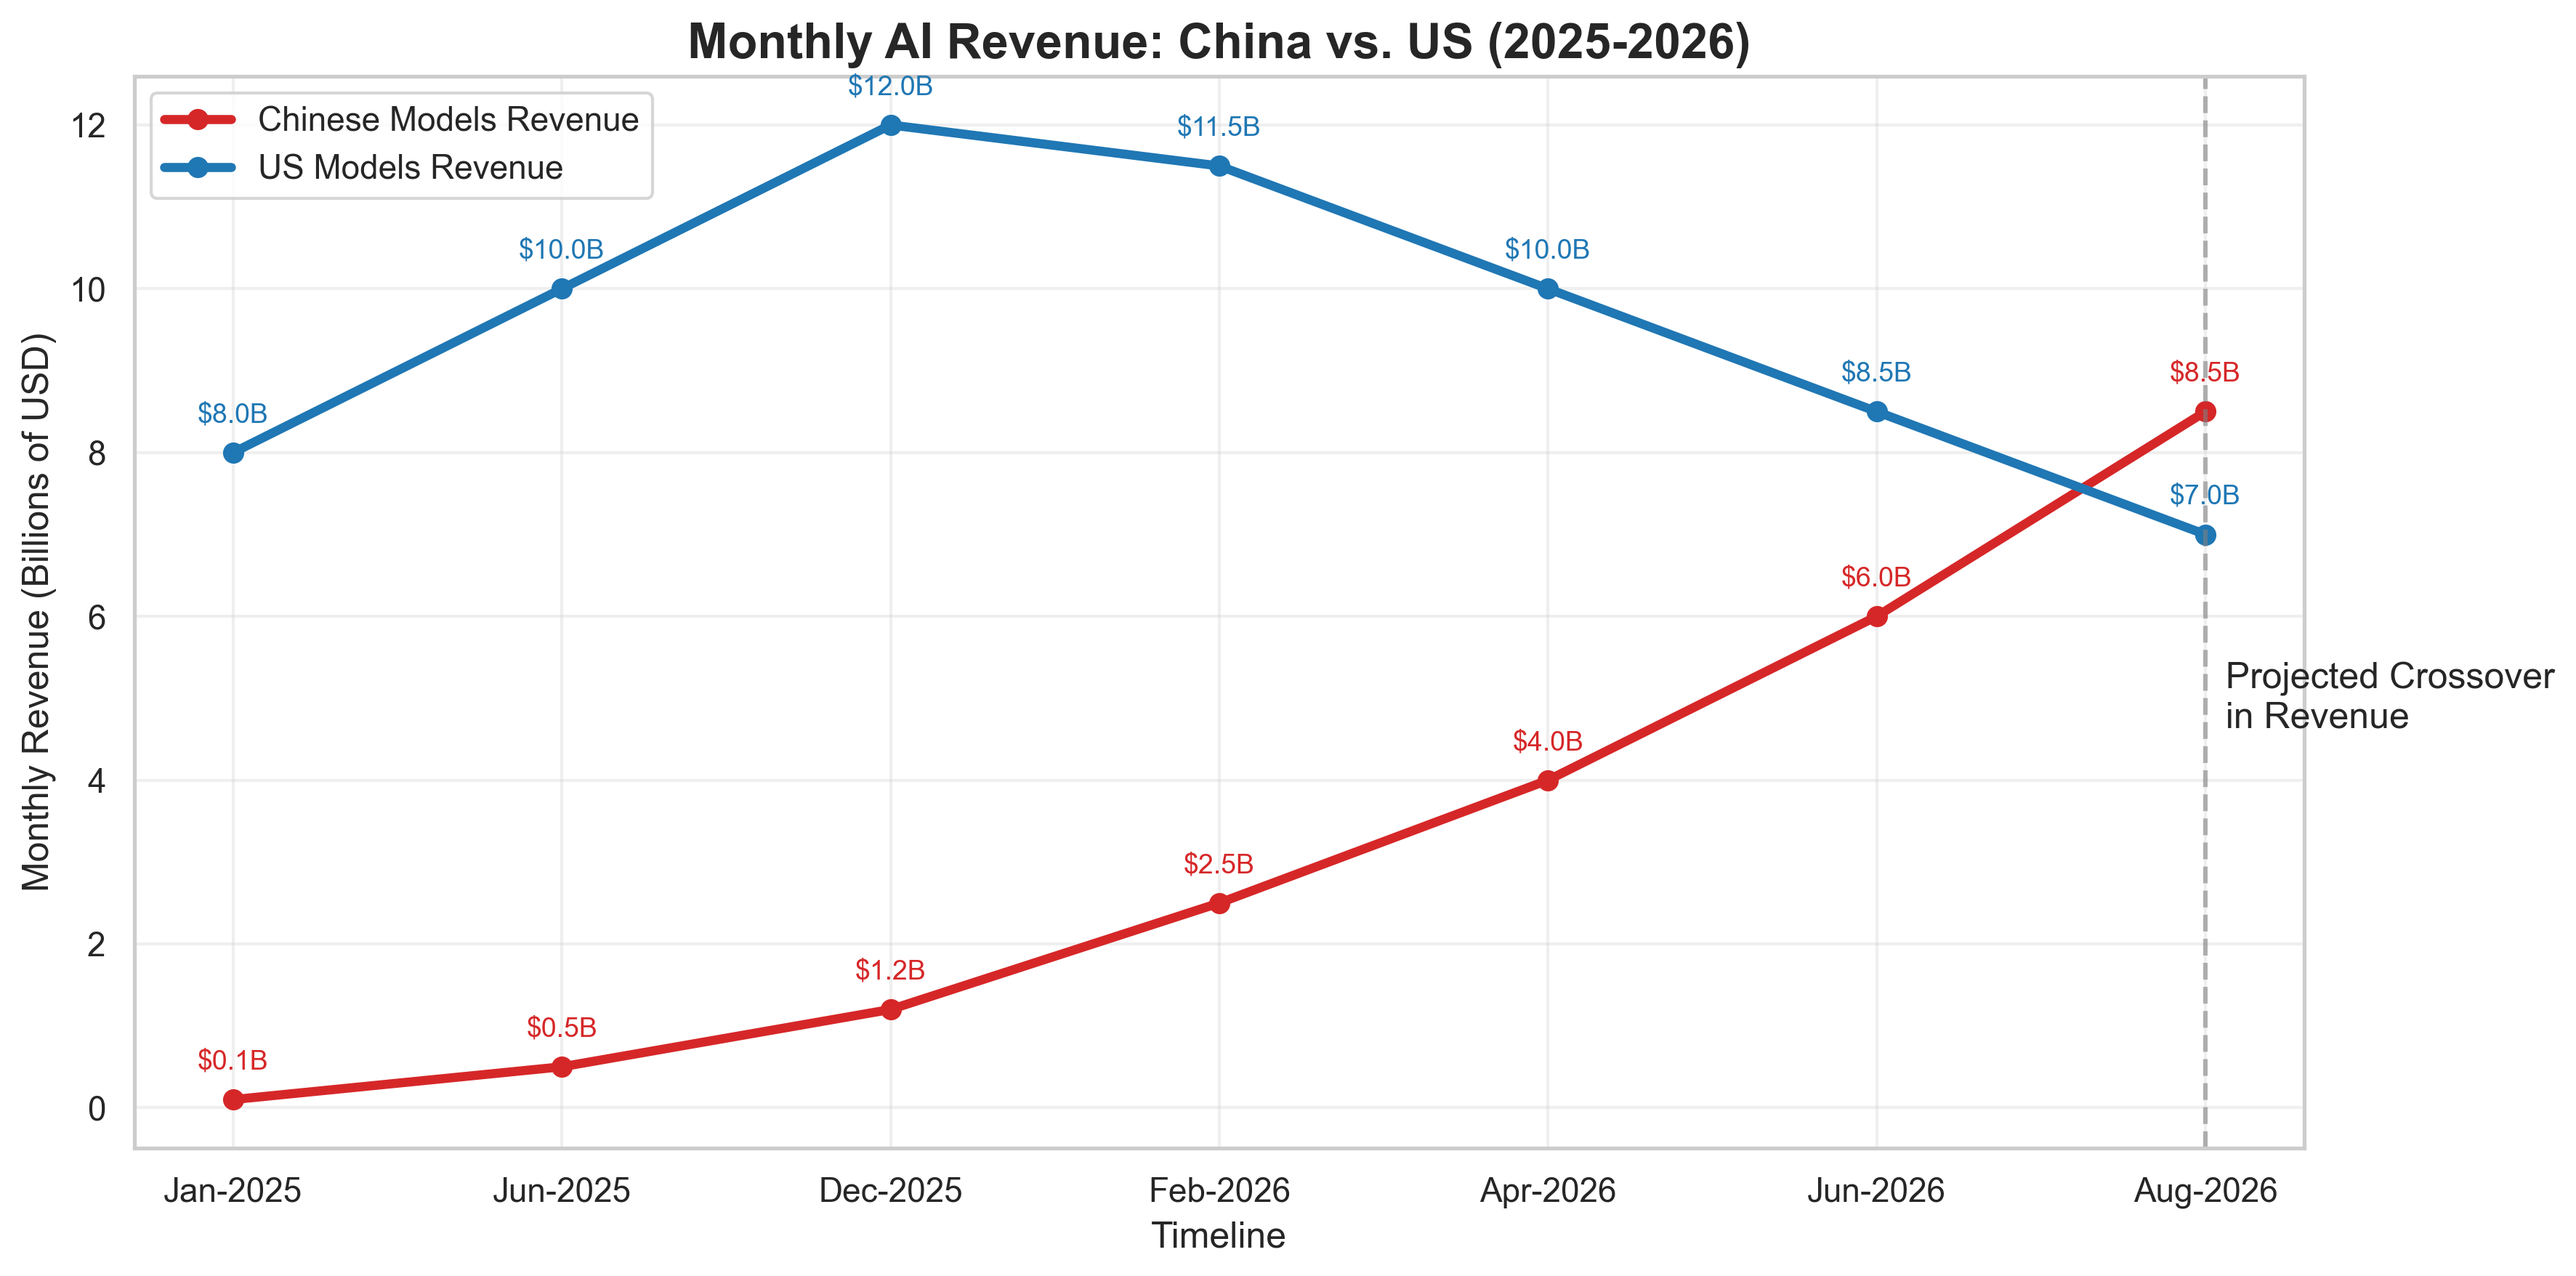
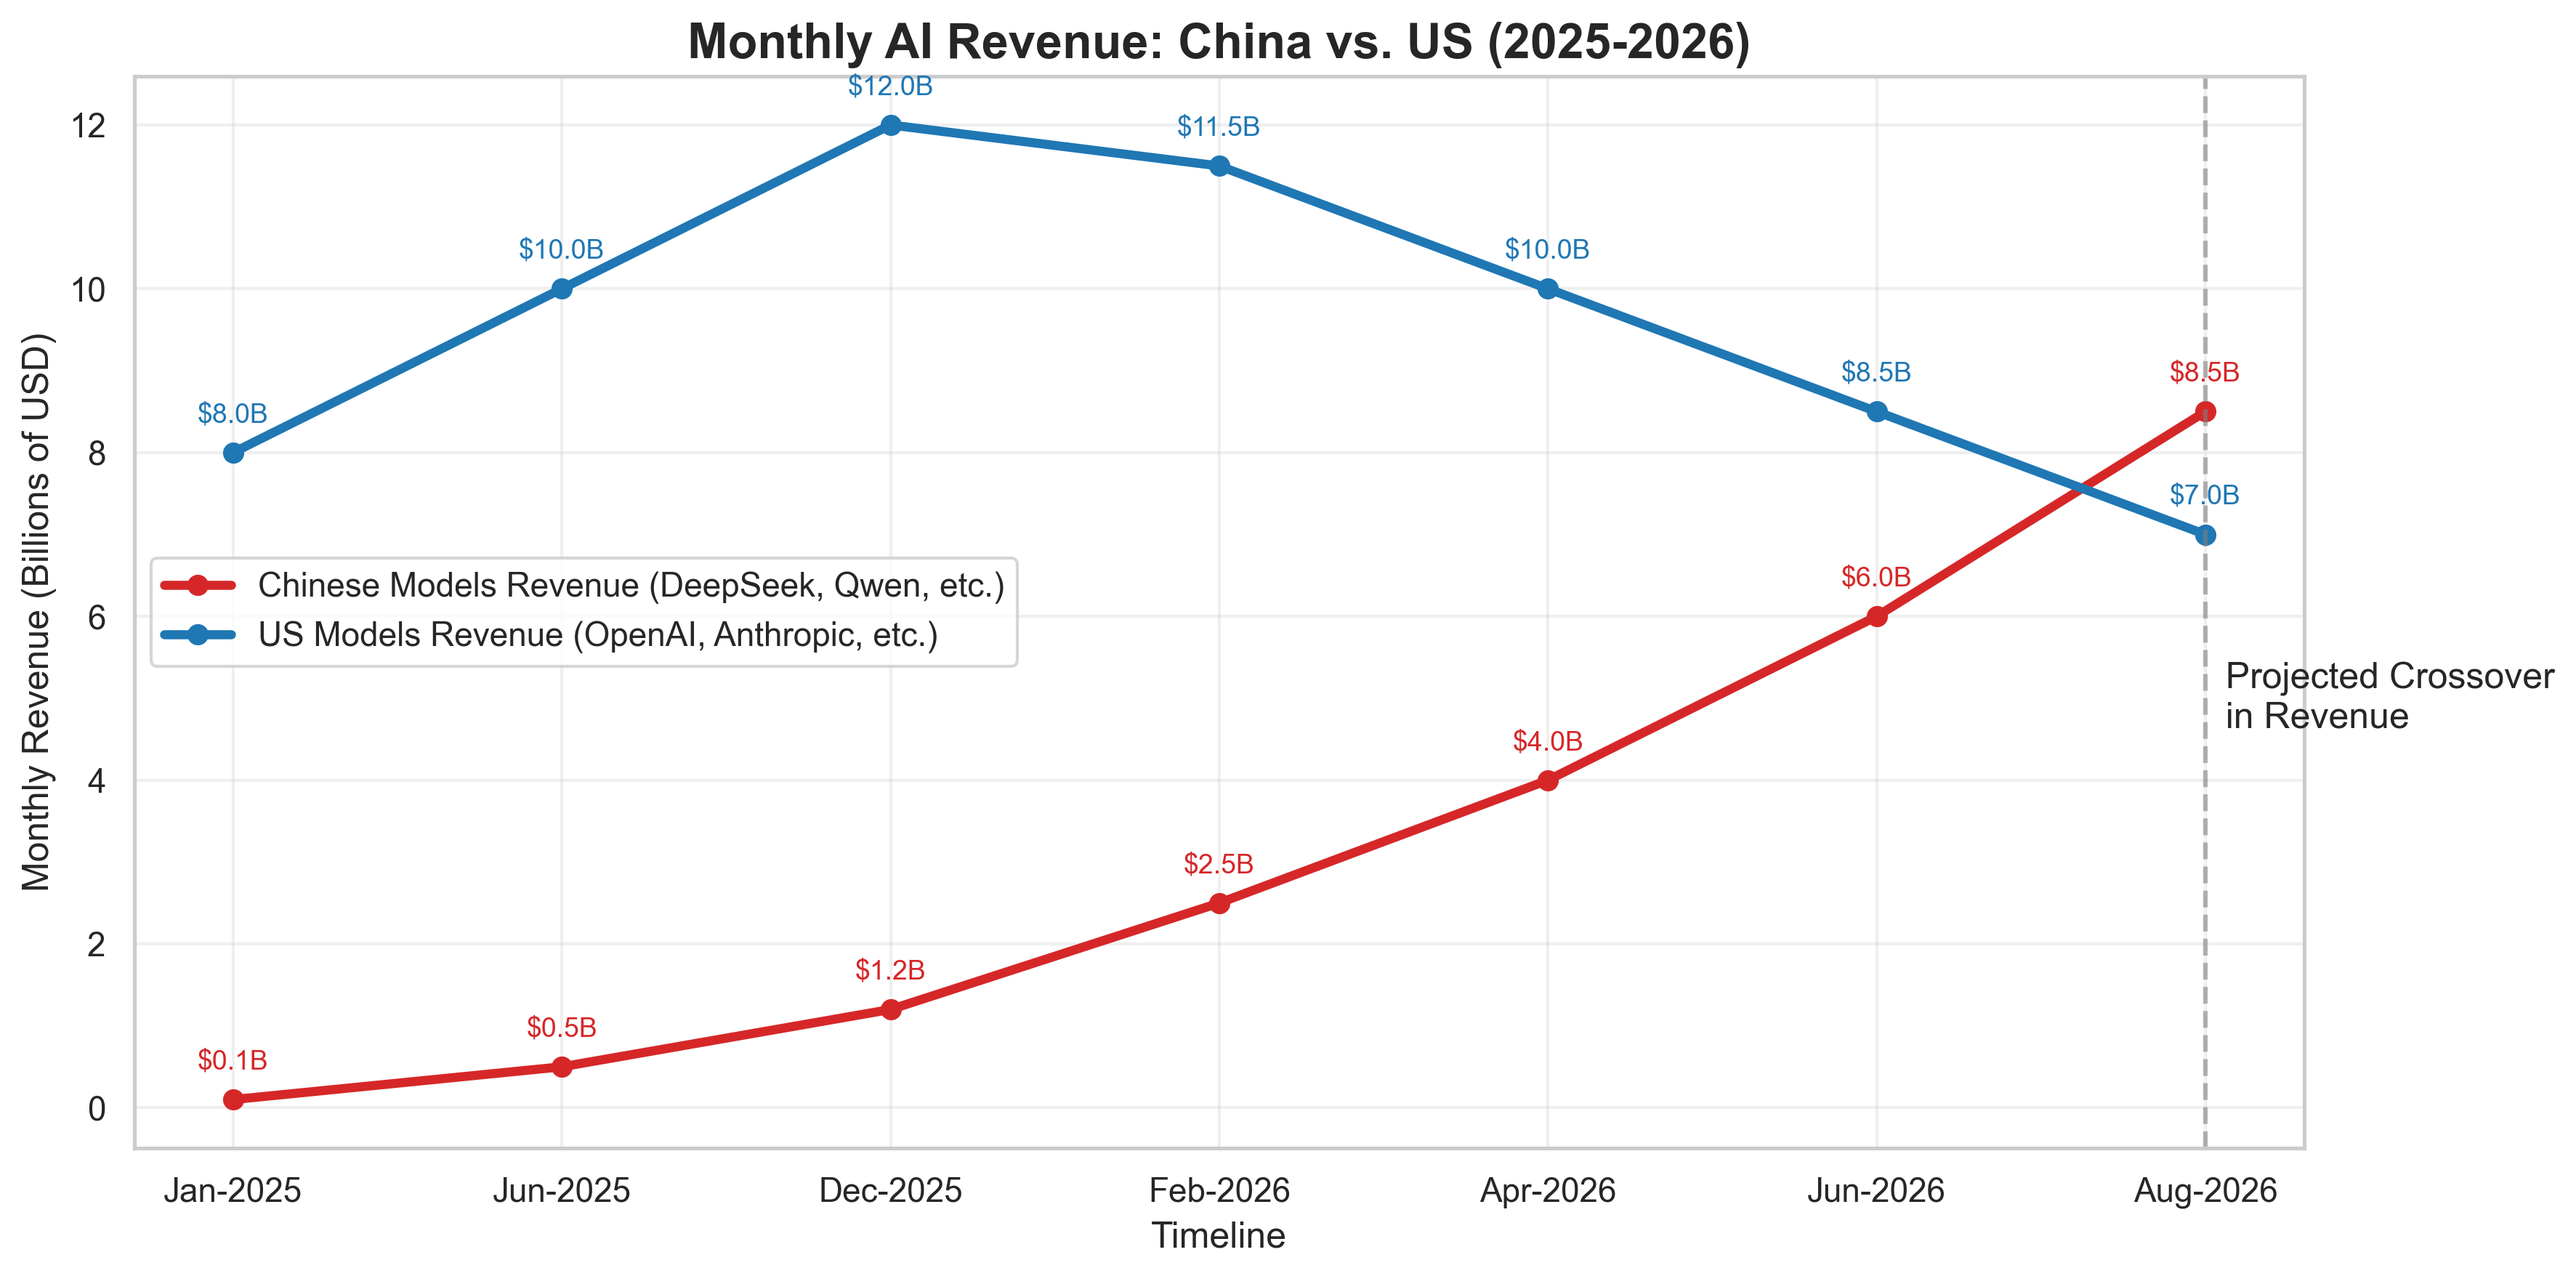
added names of companies

Changed region(s): [[0.0621, 0.4305, 0.4034, 0.5228], [0.0621, 0.0615, 0.2482, 0.1538]]

diff --git a/China_vs_USA_revenue.py b/China_vs_USA_revenue.py
@@ -32,7 +32,7 @@ plt.plot(
     marker="o",
     linewidth=3,
     color="#d62728",
-    label="Chinese Models Revenue",
+    label="Chinese Models Revenue (DeepSeek, Qwen, etc.)",
 )
 plt.plot(
     df["Date"],
@@ -40,7 +40,7 @@ plt.plot(
     marker="o",
     linewidth=3,
     color="#1f77b4",
-    label="US Models Revenue",
+    label="US Models Revenue (OpenAI, Anthropic, etc.)",
 )
 
 # Annotate the plotted points
